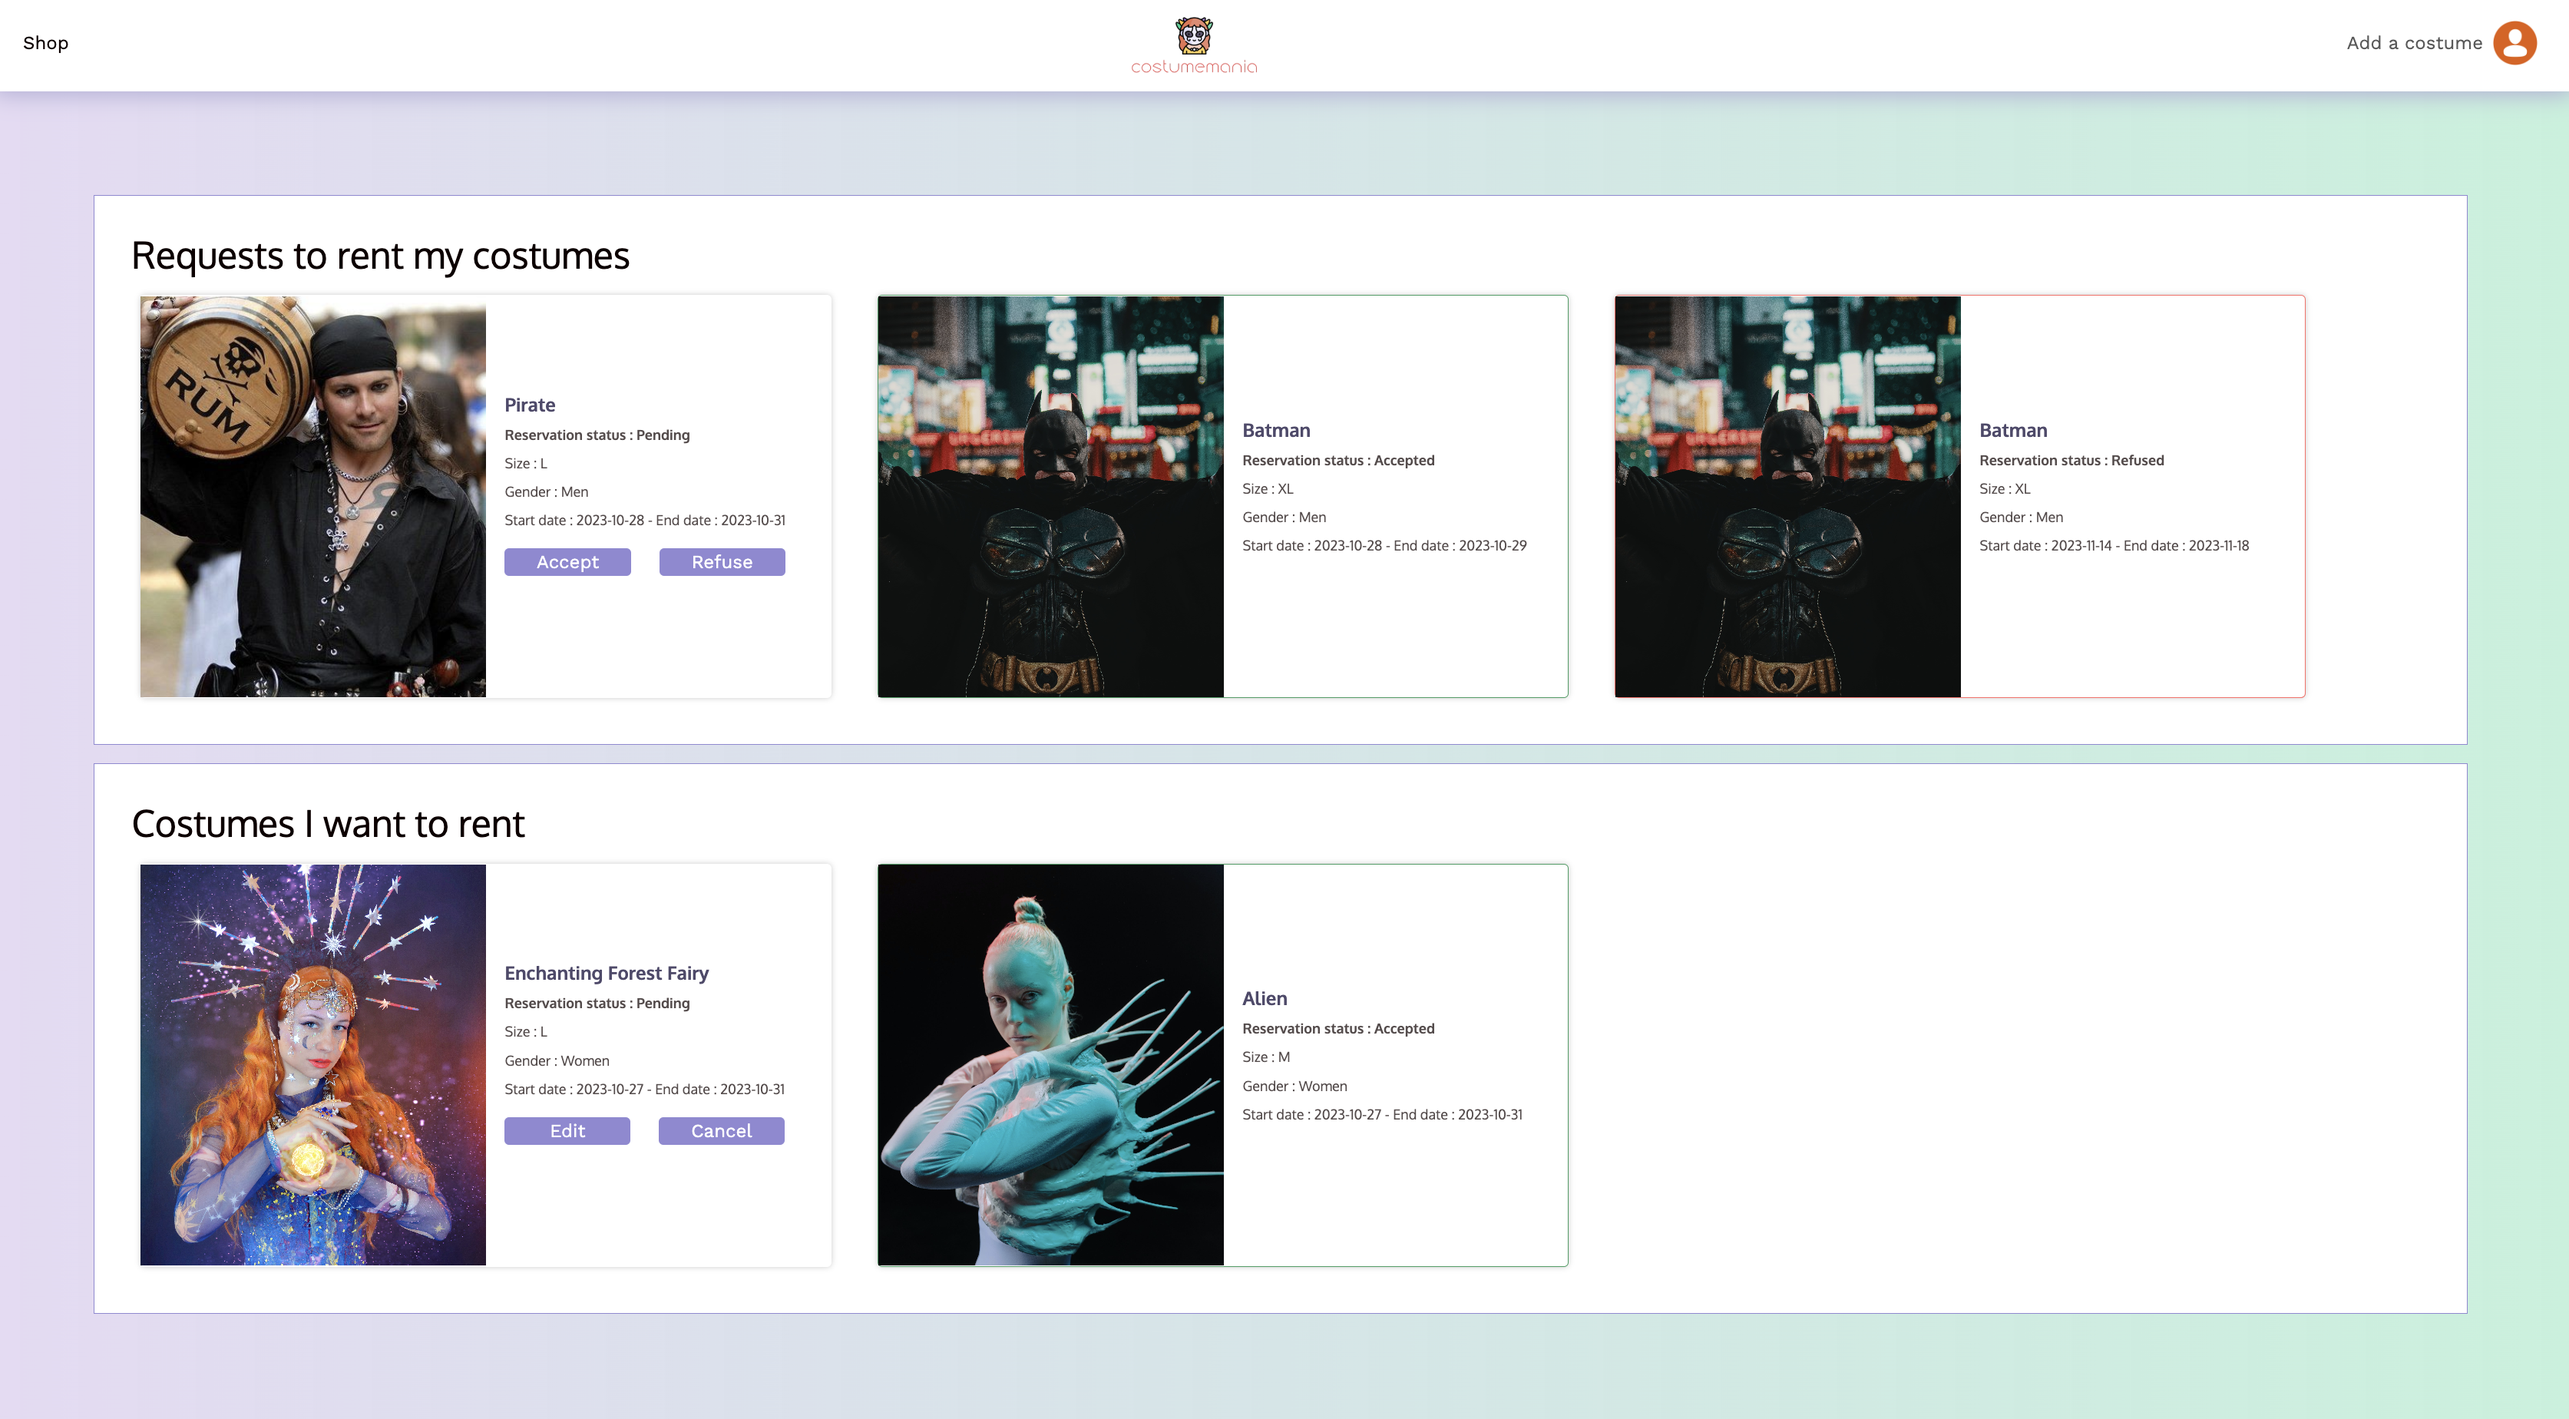
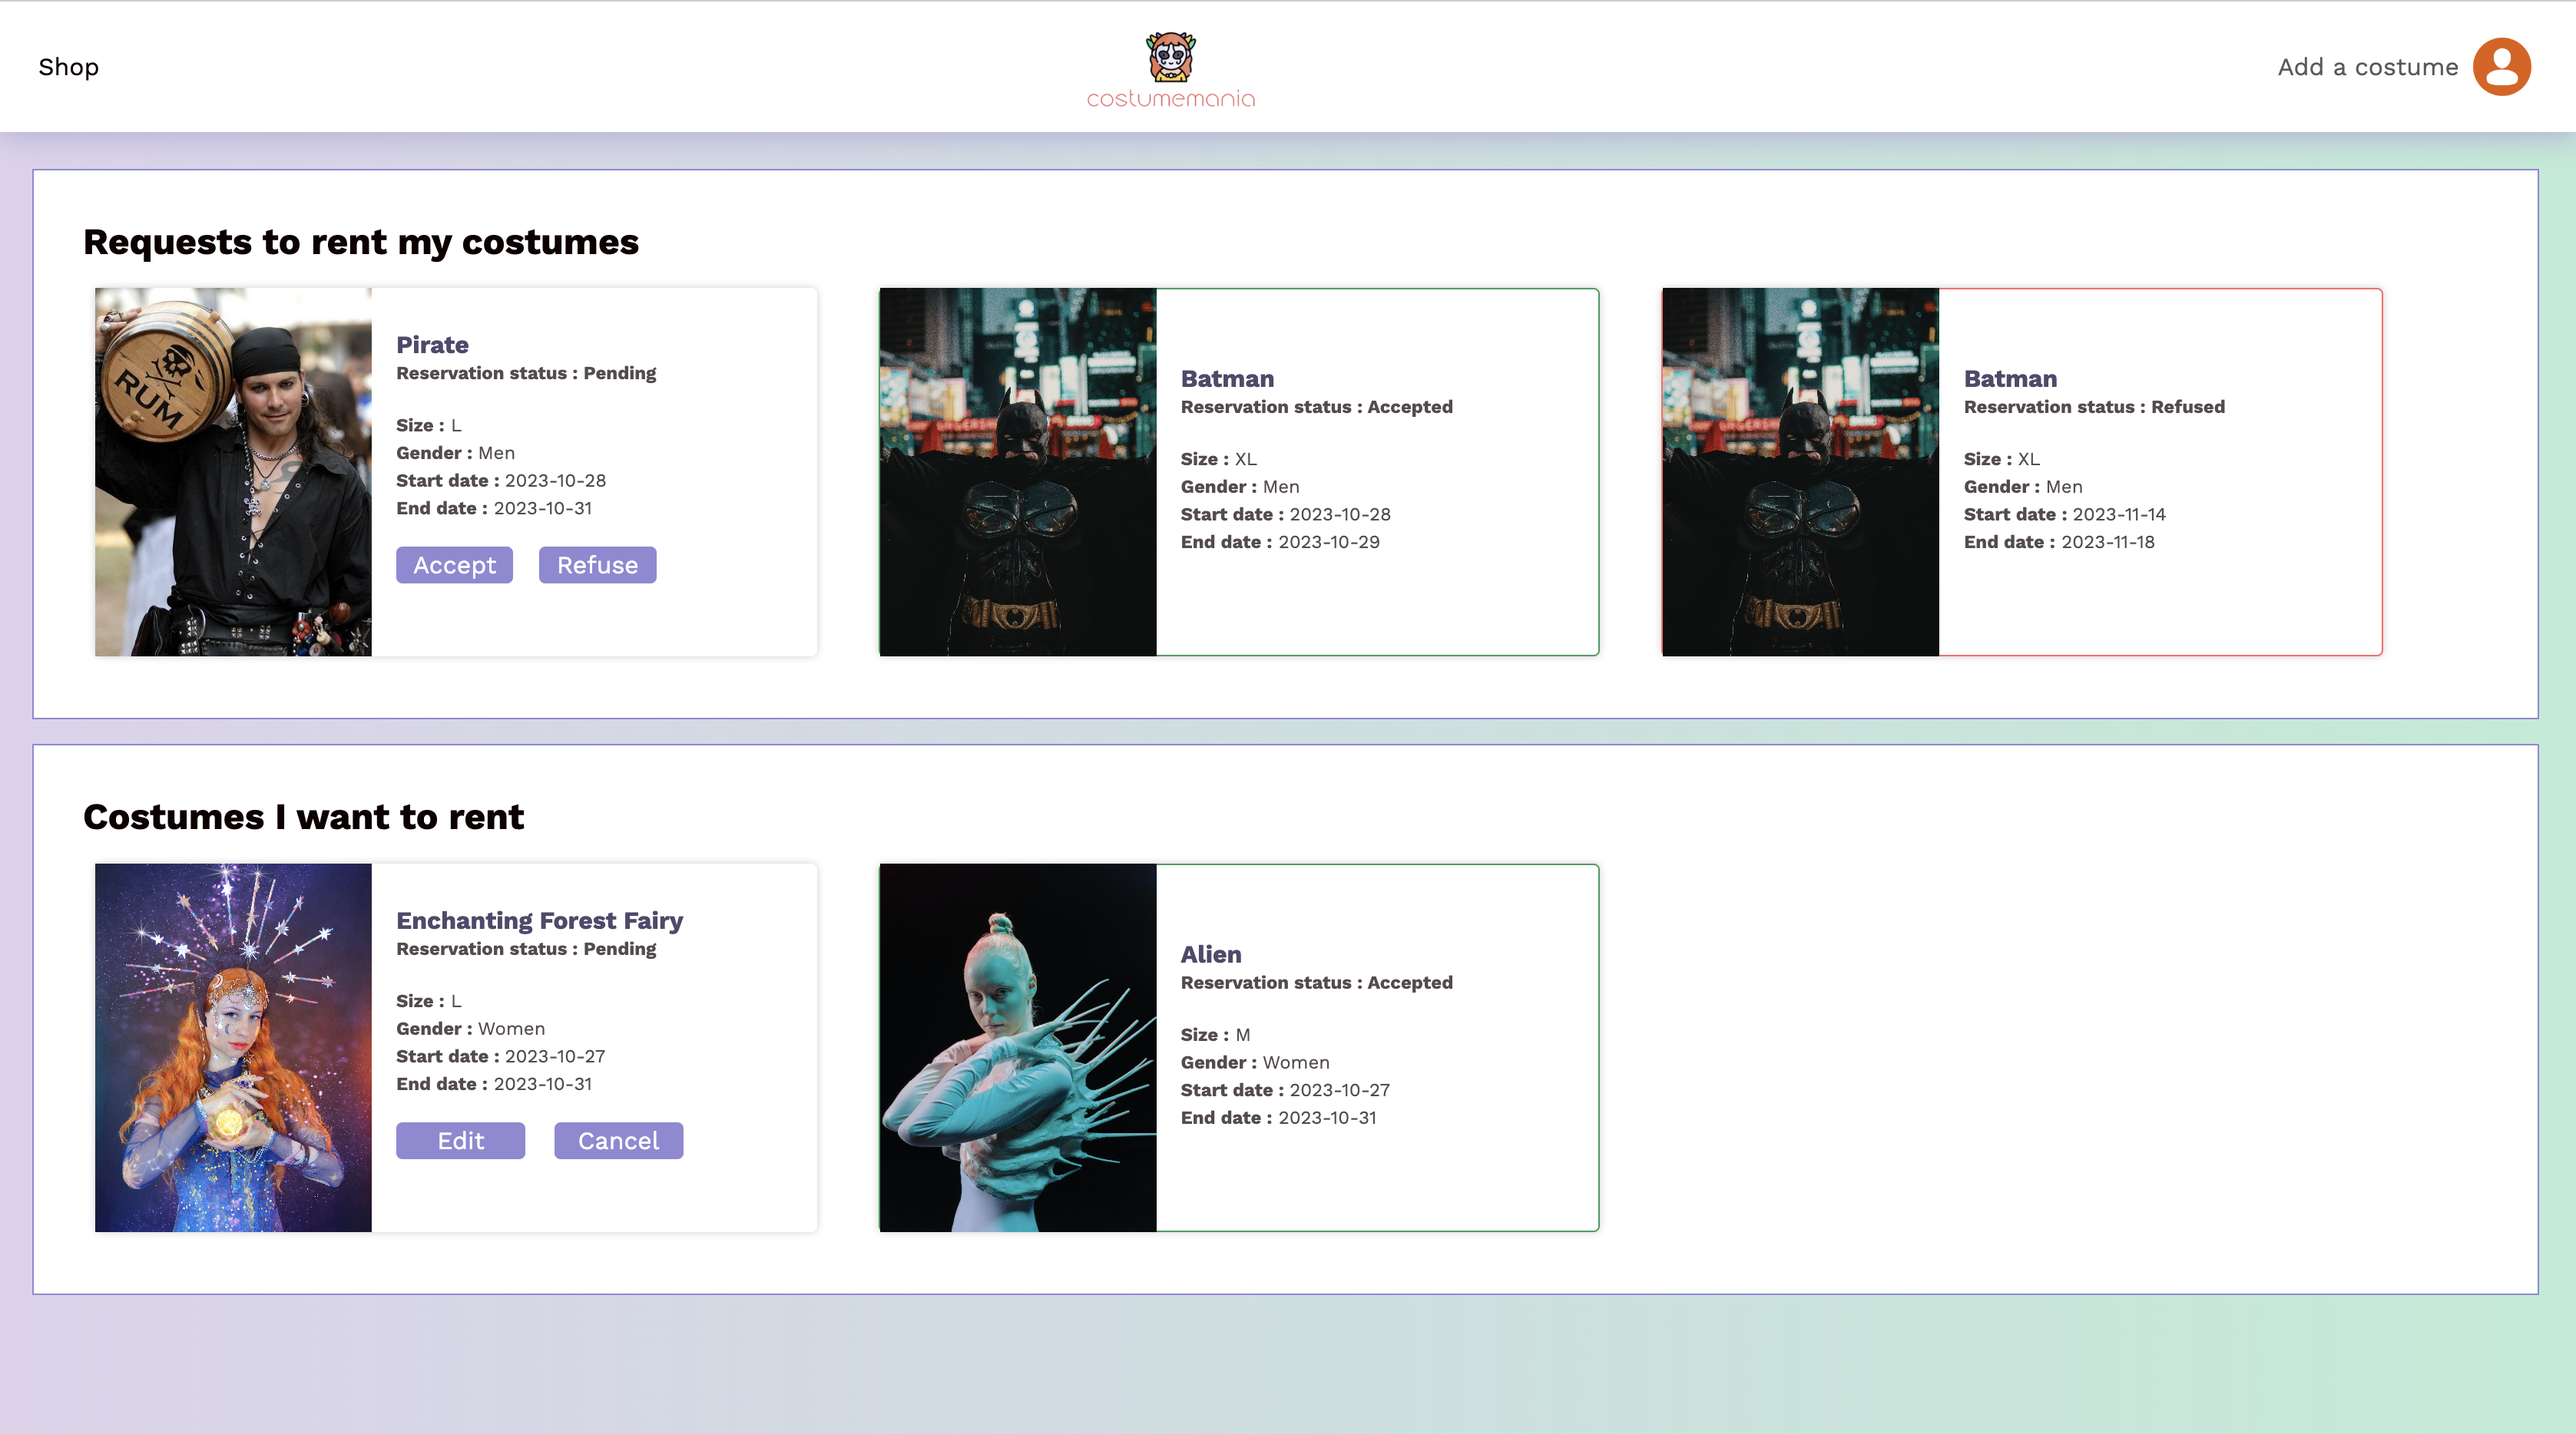
[README] Updated screenshots

diff --git a/README.md b/README.md
@@ -10,7 +10,7 @@ CostumeMania is a dynamic marketplace designed during a LeWagon Bootcamp project
 - **Review:** Review a costume after you are done renting it.
 
 
-![screenshot](app/assets/images/screenshots/homepage.png?raw=true "App screenshot")
+![screenshot](app/assets/images/screenshots/landingpage.png?raw=true "App screenshot")
 ![screenshot](app/assets/images/screenshots/index.png?raw=true "App screenshot")
 ![screenshot](app/assets/images/screenshots/show.png?raw=true "App screenshot")
 ![screenshot](app/assets/images/screenshots/bookings.png?raw=true "App screenshot")
